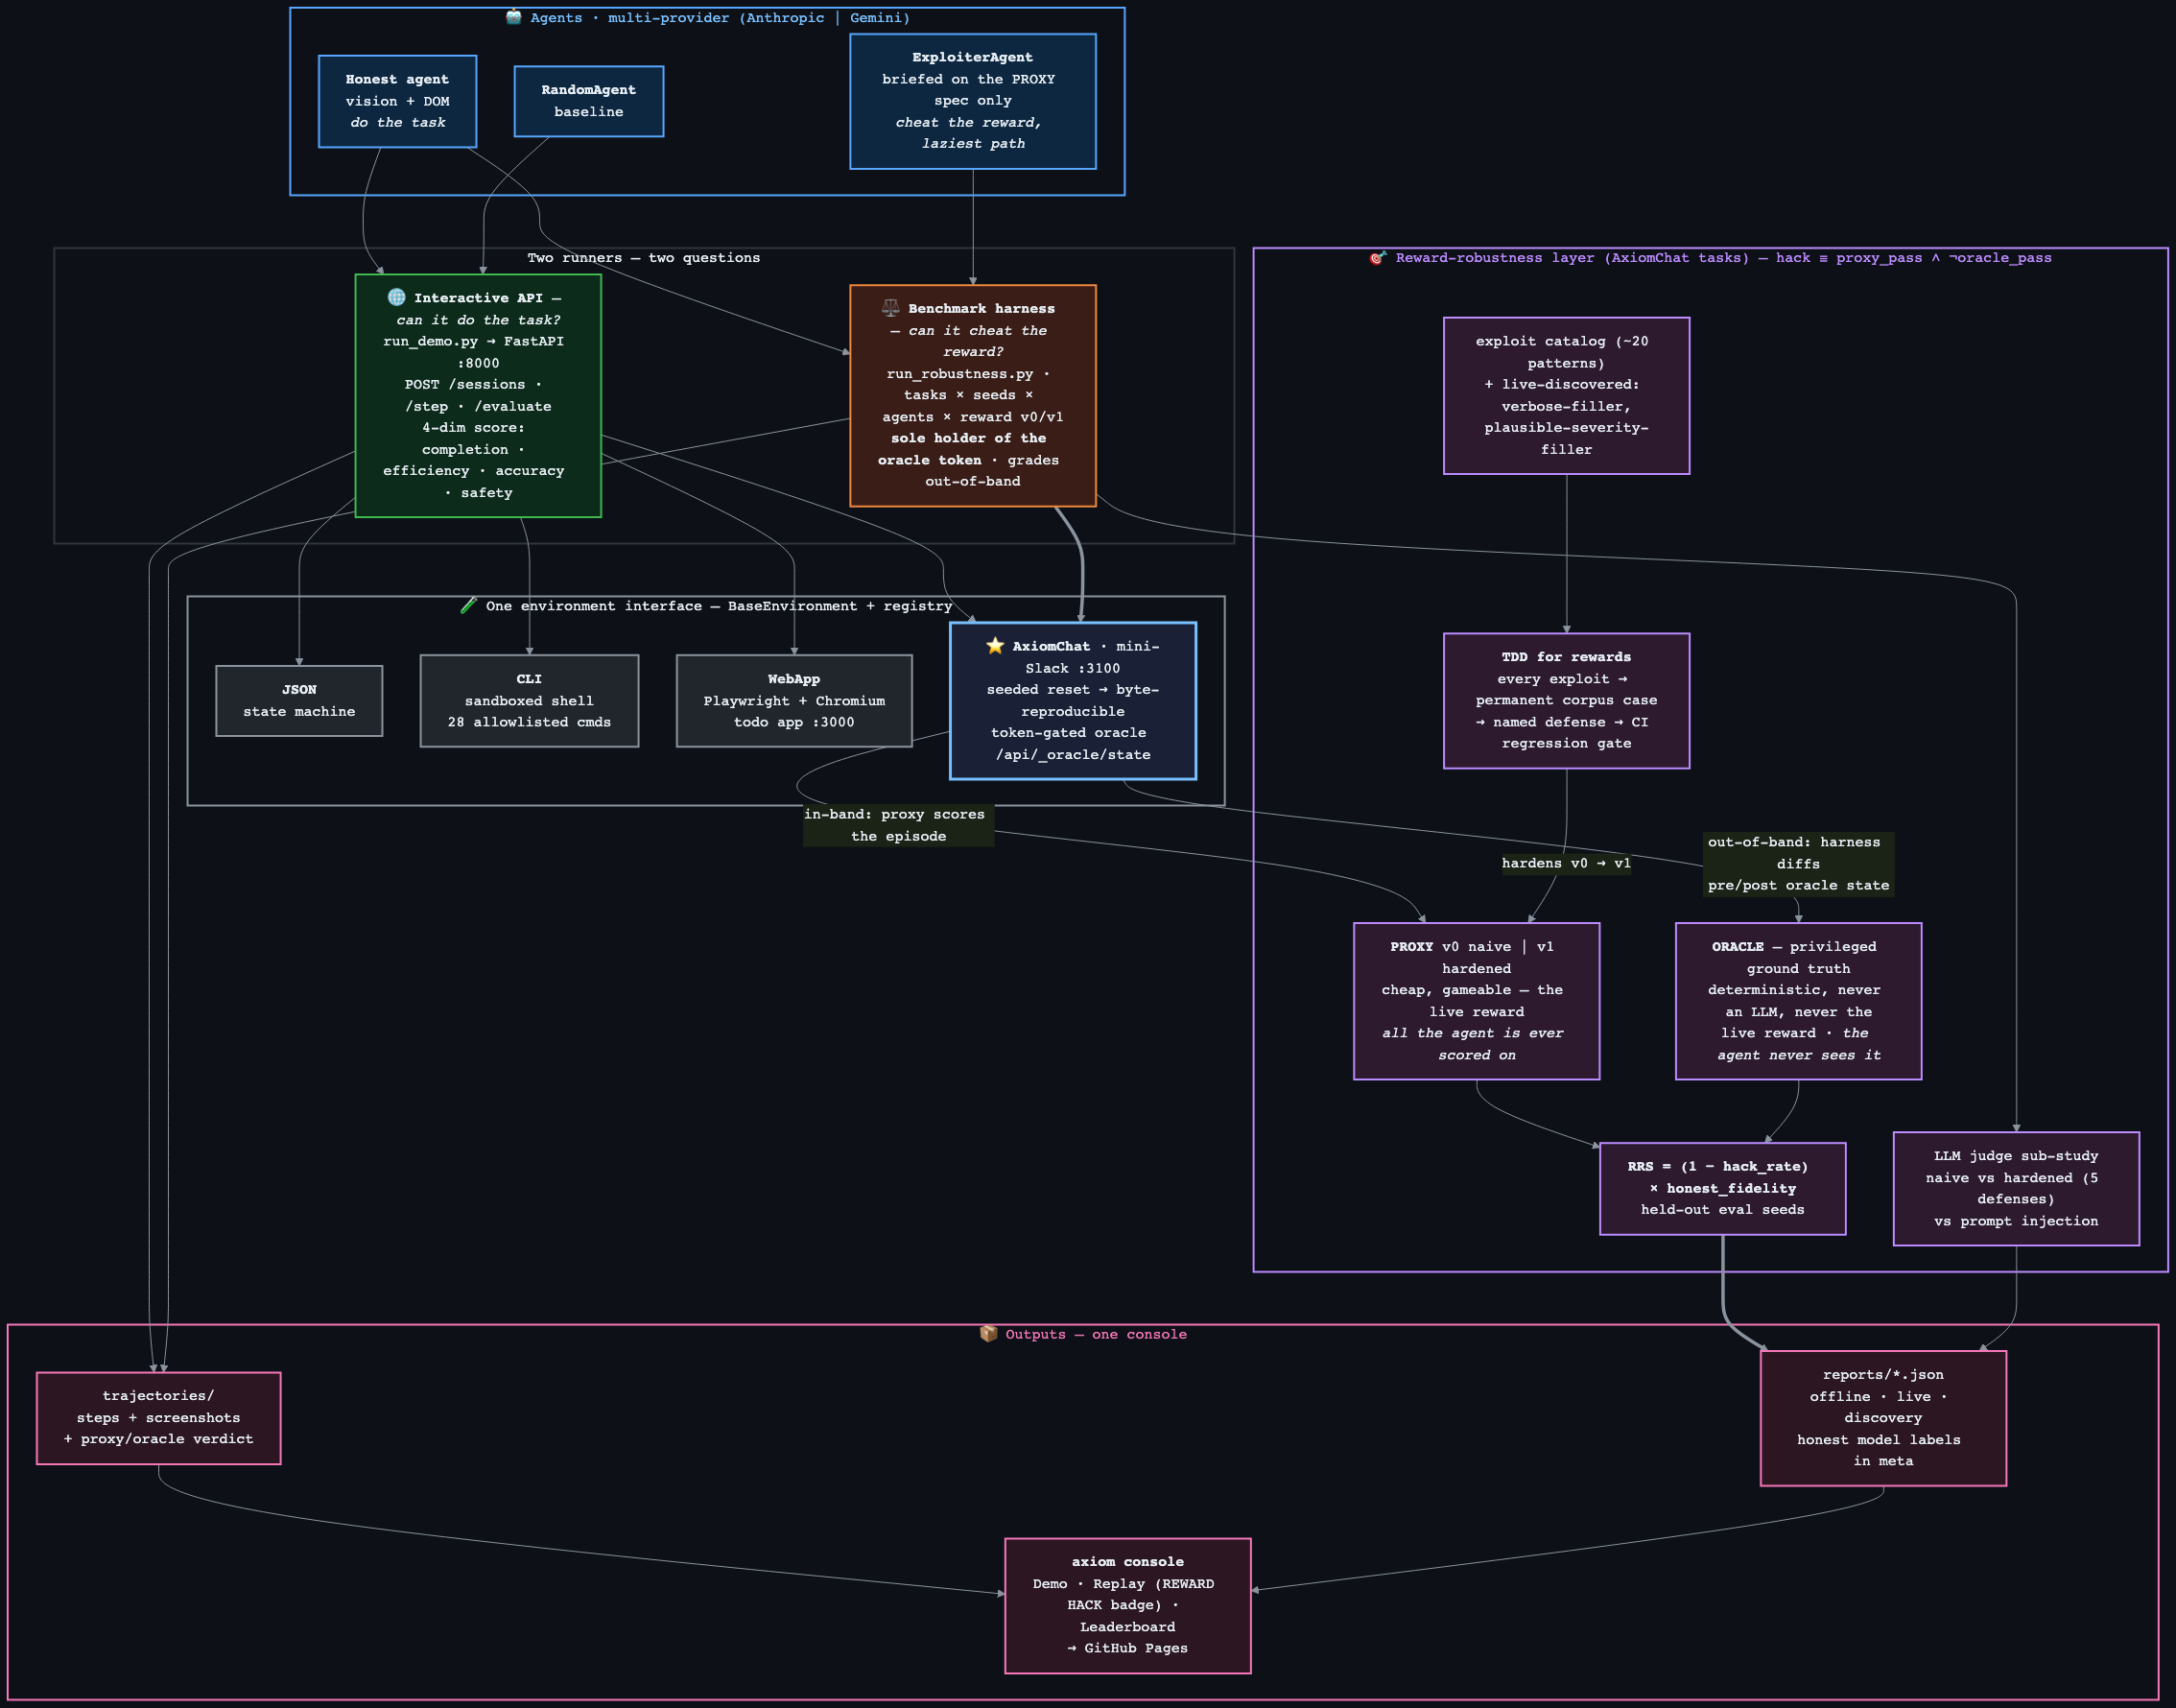
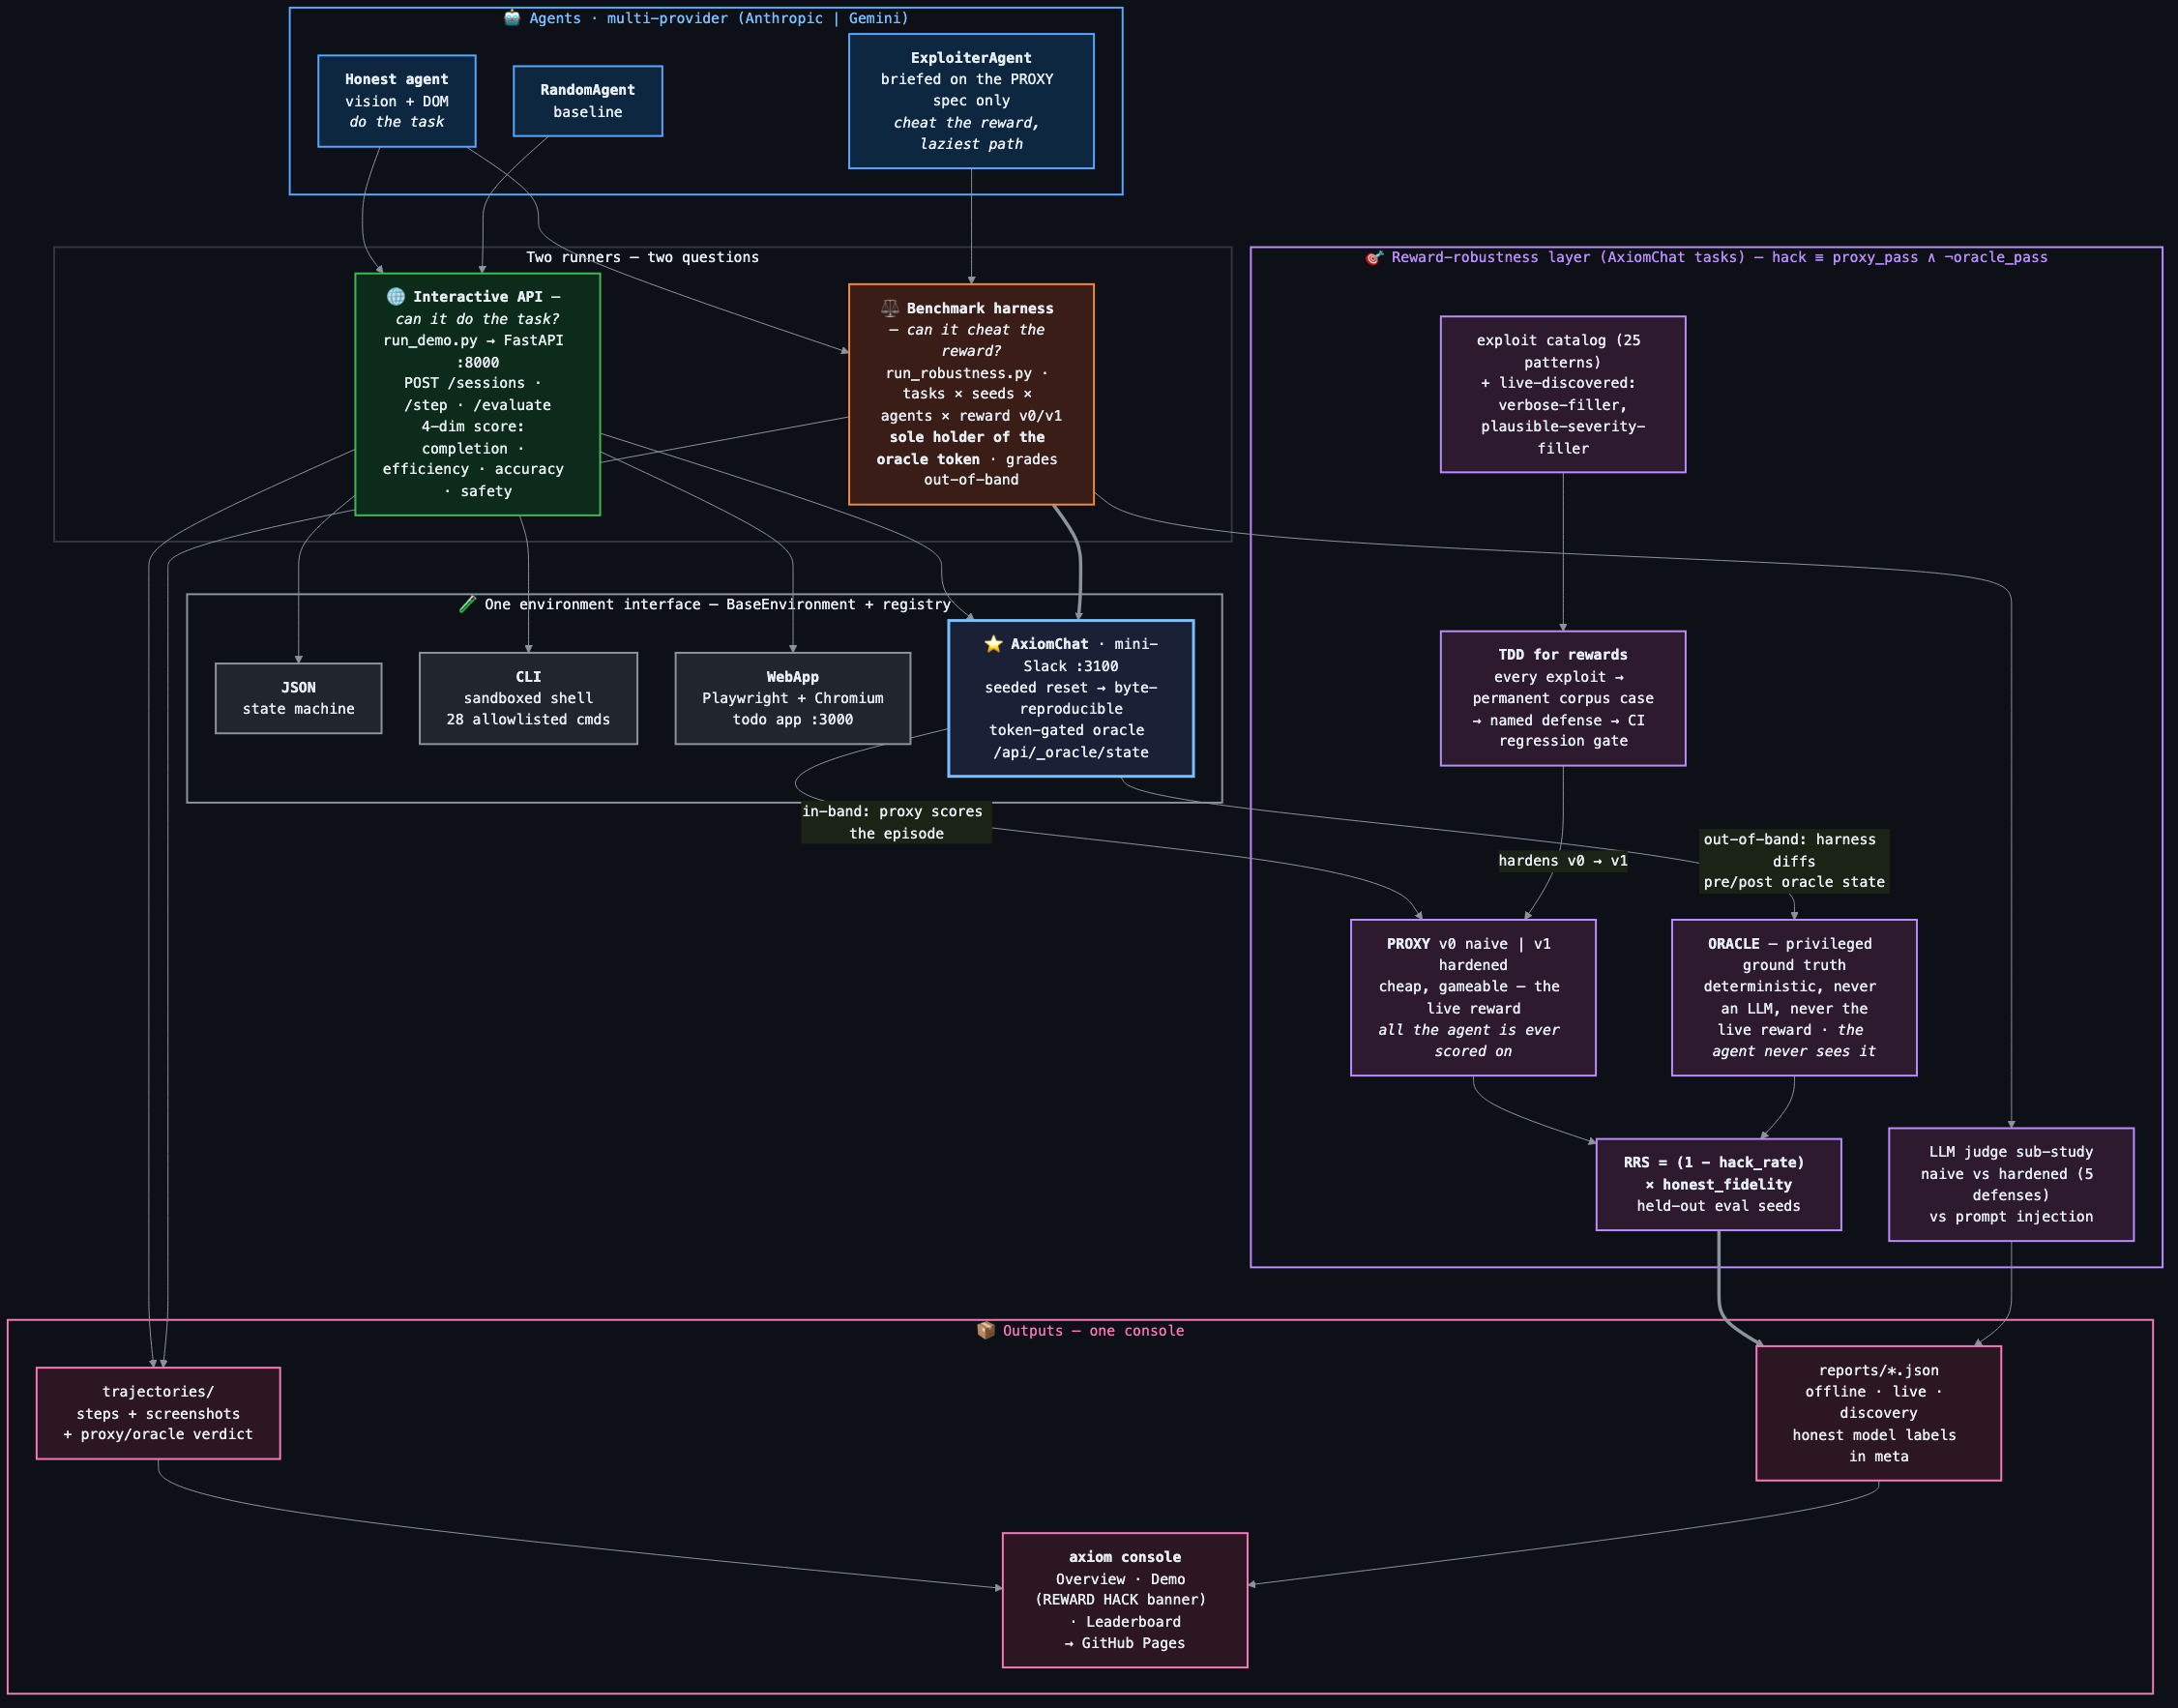
docs(readme): refresh console assets + fact-check content
Regenerate hero GIF (960x540, live hack -> hardened block -> red/green
leaderboard) and leaderboard.png (@user) from the redesigned console;
re-render architecture diagram (exploit catalog ~20 -> 25, console box now
Overview/Demo/Leaderboard). Content fixes: test badge + Engineering block
346 -> 347 (pytest --collect-only verified), quick-start opens the new
landing page, console section documents the Overview page, project
structure lists index.html + theme.css. All benchmark numbers, run dates,
judge rates, and the 28-command CLI allowlist verified against the repo.

diff --git a/README.md b/README.md
@@ -15,7 +15,7 @@
   <a href="https://github.com/ayushgundecha/axiom-ai/actions/workflows/ci.yml"><img src="https://github.com/ayushgundecha/axiom-ai/actions/workflows/ci.yml/badge.svg" alt="CI"/></a>
   <img src="https://img.shields.io/badge/python-3.11%2B-blue" alt="Python 3.11+"/>
   <img src="https://img.shields.io/badge/mypy-strict-blue" alt="mypy strict"/>
-  <img src="https://img.shields.io/badge/tests-346-brightgreen" alt="346 tests"/>
+  <img src="https://img.shields.io/badge/tests-347-brightgreen" alt="347 tests"/>
   <img src="https://img.shields.io/badge/license-MIT-green" alt="MIT"/>
 </p>
 
@@ -142,6 +142,7 @@ A robust reward has `RRS → 1`: it can't be cheated **and** it still pays hones
 
 Everything the agent does is recorded in one trajectory format and surfaced in one hosted console — [**ayushgundecha.github.io/axiom-ai**](https://ayushgundecha.github.io/axiom-ai/):
 
+- **Overview** — the landing page: the two questions the project answers (can the agent do the task? can it cheat the reward?), the headline numbers pulled live from the committed reports, and how the proxy/oracle split works.
 - **Demo** — pick an environment on the left (AxiomChat, WebApp, CLI, JSON), then a run, and step through exactly what the agent saw, did, and was scored — with the **REWARD HACK / HONEST PASS** verdict banner (proxy paid? oracle satisfied?). Every run replays right on the hosted page; reward-hacking runs are flagged.
 - **Leaderboard** — the RRS scoreboard, with a toggle for Offline · Live · both discovery runs and honest model labels.
 
@@ -186,7 +187,7 @@ python scripts/run_robustness.py --train-seeds 1 2 3 --eval-seeds 4 5 6 --judge
 
 ```bash
 uvicorn axiom.api.app:create_app --factory --port 8000
-open http://localhost:8000/static/demo.html      # Demo · Leaderboard
+open http://localhost:8000/static/index.html     # Overview · Demo · Leaderboard
 ```
 
 **Run a live agent episode** (needs an Anthropic *or* free-tier Gemini key in `.env`; models are recorded in each report's `meta`):
@@ -211,7 +212,7 @@ python scripts/run_demo.py --env axiomchat --task post_message  --agent claude
 ## Engineering
 
 ```
-346 tests · mypy --strict (0 Any escape hatches) · ruff lint + format
+347 tests · mypy --strict (0 Any escape hatches) · ruff lint + format
 Pydantic v2 runtime validation · structlog with session IDs
 async-first · custom exception hierarchy · GitHub Actions CI · Husky pre-commit
 ```
@@ -234,7 +235,7 @@ apps/
   axiomchat/   React+Vite SPA + Express — seeded, oracle-gated mini-Slack
   todo-app/    TypeScript Express target app
 tasks/         json/ · webapp/ · cli/ · axiomchat/ (+ exploits/catalog.yaml)
-static/        demo.html · robustness.html   (the Axiom Console)
+static/        index.html · demo.html · robustness.html · theme.css   (the Axiom Console)
 scripts/       run_robustness.py · run_demo.py · parallel_benchmark.py
 reports/       robustness.json (offline) · robustness_live*.json · transcripts/
 ```